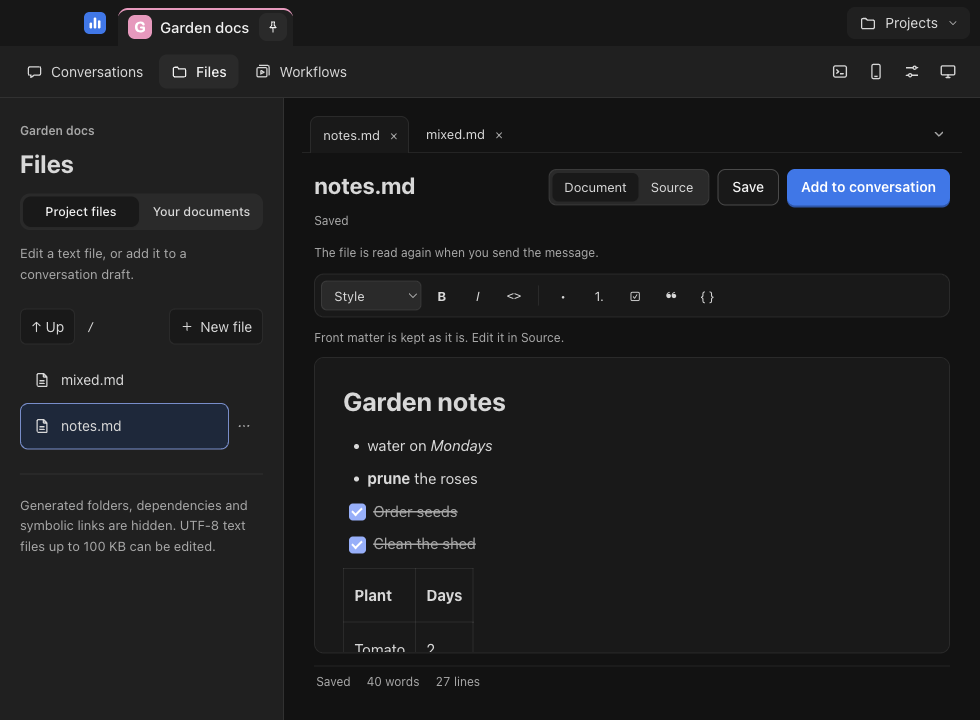
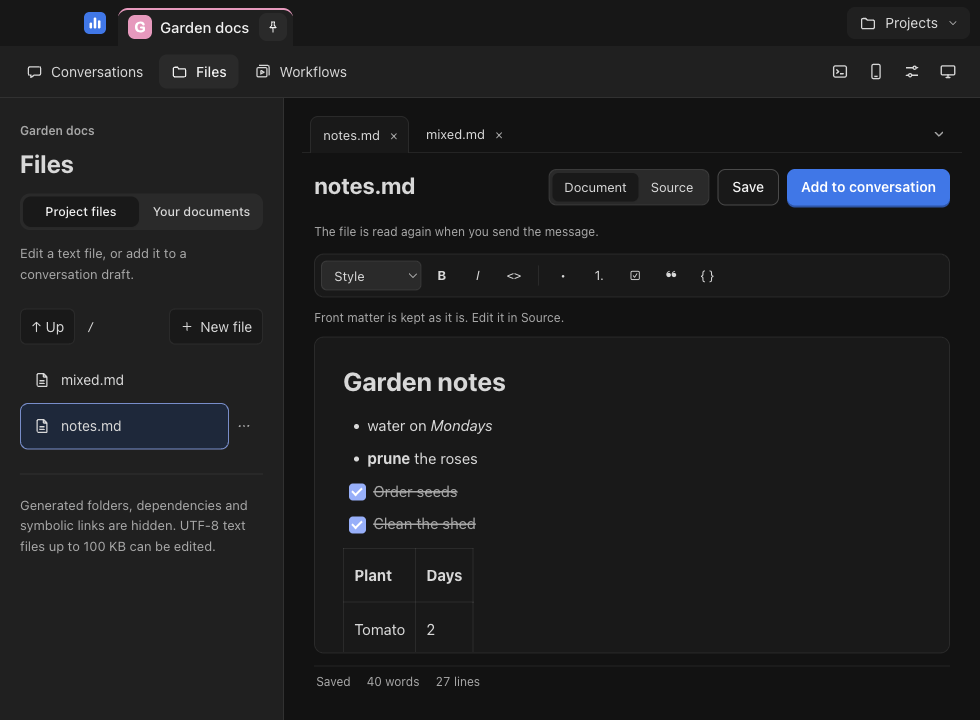
feat(files): Files extras proven - your documents, new-file kinds, row actions, tab menu, footer, line numbers (U9)
Finishes U9 on top of the earlier checkpoint: the Saved state moves to the editor footer (beside words
and lines), proof-edit reads it there, and proof:files-extras covers documents, pin/archive, rename,
Open in default app, Reveal in Finder, Move to Trash, the open-tabs menu and line numbers.
Gate: proof:files-extras (20 checks, no agent).

diff --git a/scripts/proof-files-extras.ts b/scripts/proof-files-extras.ts
@@ -1,0 +1,162 @@
+// U9 Files-extras gate, run against the PACKAGED app (npm run package first): `npm run proof:files-extras`.
+// No agent usage. Your documents (kept in the app's folder, never the project), new-file kinds,
+// pin / archive / rename, Open in default app / Reveal in Finder / Move to Trash, the open-tabs
+// menu (Close other / Close all keep unsaved tabs), the Saved / words footer, and line numbers.
+// Finder and the Trash are intercepted in the main process, so the real Trash stays untouched.
+import { existsSync, mkdirSync, mkdtempSync, readdirSync, readFileSync, realpathSync, rmSync, writeFileSync } from 'node:fs'
+import { tmpdir } from 'node:os'
+import { join } from 'node:path'
+import type { Page } from 'playwright-core'
+import { checker, launchPackagedApp, PROOF_DIR, ROOT } from './lib/launch-app.ts'
+import { openProject } from './lib/ui.ts'
+
+const home = mkdtempSync(join(tmpdir(), 'cockpit-files-extras-proof-'))
+const state = join(home, 'state')
+const project = join(home, 'greenhouse')
+mkdirSync(project)
+writeFileSync(join(project, 'README.md'), '# Greenhouse\n\nSeedlings go out in May.\n')
+writeFileSync(join(project, 'notes.txt'), 'first line\nsecond line\nthird line\n')
+writeFileSync(join(project, 'todo.txt'), 'repot the basil\n')
+
+const docsDir = (): string => { const base = join(state, 'documents'); return join(base, readdirSync(base).find((n) => !n.endsWith('.json'))!) }
+const list = (page: Page) => page.getByRole('navigation', { name: /Project files|Your documents/ })
+const row = (page: Page, name: string) => list(page).locator('.file-row-wrap').filter({ has: page.locator('.file-row', { hasText: new RegExp(`^${name.replace('.', '\\.')}`) }) })
+async function rowAction(page: Page, name: string, action: string): Promise<void> {
+  await row(page, name).getByRole('button', { name: `More for ${name}` }).click()
+  await page.getByRole('menuitem', { name: action }).click()
+}
+async function newFile(page: Page, kind: RegExp, name: string): Promise<void> {
+  await list(page).getByRole('button', { name: 'New file' }).click()
+  await page.getByRole('menuitem', { name: kind }).click()
+  await page.getByLabel('New file name').fill(name)
+  await page.getByRole('button', { name: 'Create', exact: true }).click()
+}
+const editor = (page: Page) => page.getByLabel('File contents')
+
+const { check, finish } = checker()
+mkdirSync(PROOF_DIR, { recursive: true })
+const app = await launchPackagedApp({ COCKPIT_HOME: state, COCKPIT_AGENT_PATH: join(ROOT, 'scripts/fixtures/echo-agent') })
+const page = await app.firstWindow()
+await page.waitForLoadState('domcontentloaded')
+page.setDefaultTimeout(15_000)
+await app.evaluate(({ shell }) => {
+  const calls: string[] = []
+  ;(globalThis as unknown as { calls: string[] }).calls = calls
+  Object.assign(shell, {
+    showItemInFolder(path: string) { calls.push(`reveal ${path}`) },
+    openPath(path: string) { calls.push(`open ${path}`); return Promise.resolve('') },
+    trashItem(path: string) { calls.push(`trash ${path}`); return Promise.resolve() },
+  })
+})
+const calls = (): Promise<string[]> => app.evaluate(() => (globalThis as unknown as { calls: string[] }).calls)
+
+try {
+  await openProject(page, project, 'Greenhouse')
+  // Source view, so typing goes to the plain text box; read when the editor mounts.
+  await page.evaluate(() => localStorage.setItem('cockpit:markdown-view', 'source'))
+  await page.getByRole('tab', { name: 'Files', exact: true }).click()
+
+  // Your documents.
+  await page.getByRole('tab', { name: 'Your documents' }).click()
+  await list(page).getByText('No documents yet.', { exact: false }).waitFor()
+  await newFile(page, /^Markdown/, 'planting plan')
+  await page.locator('.file-tab.active').filter({ hasText: 'planting plan.md' }).waitFor()
+  check('Markdown adds .md, and the document opens', true)
+  await editor(page).fill('Tomatoes in bed two, basil by the door.\nPeppers wait for June.')
+  check('the footer counts words and says unsaved', await page.locator('.file-status').innerText().then((t) => /Unsaved changes/.test(t) && /12 words/.test(t) && /2 lines/.test(t)),
+    await page.locator('.file-status').innerText())
+  await page.getByRole('button', { name: 'Save', exact: true }).click()
+  await page.locator('.file-status').filter({ hasText: /^Saved/ }).waitFor()
+  check('saving says Saved', true)
+  check('documents are kept by Cockpit, never in the project', readFileSync(join(docsDir(), 'planting plan.md'), 'utf8').startsWith('Tomatoes')
+    && !existsSync(join(project, 'planting plan.md')))
+  check('documents are not offered to conversations', await page.getByRole('button', { name: 'Add to conversation' }).count() === 0)
+  await newFile(page, /^JSON/, 'sowing')
+  await page.locator('.file-tab.active').filter({ hasText: 'sowing.json' }).waitFor()
+  check('JSON starts as an empty object', readFileSync(join(docsDir(), 'sowing.json'), 'utf8') === '{\n}\n')
+  await newFile(page, /^Plain text/, 'shopping')
+  await page.locator('.file-tab.active').filter({ hasText: 'shopping.txt' }).waitFor()
+  check('Plain text adds .txt', existsSync(join(docsDir(), 'shopping.txt')))
+
+  await rowAction(page, 'shopping.txt', 'Pin')
+  await page.locator('.file-pin').waitFor()
+  const order = await list(page).locator('.file-row > span:first-of-type').allTextContents()
+  check('a pinned document leads the list', order[0] === 'shopping.txt', order.join(', '))
+  await rowAction(page, 'planting plan.md', 'Archive')
+  await list(page).getByRole('tab', { name: /Archived 1/ }).waitFor()
+  check('archiving moves it out of Current', await row(page, 'planting plan.md').count() === 0)
+  await list(page).getByRole('tab', { name: /Archived/ }).click()
+  await rowAction(page, 'planting plan.md', 'Unarchive')
+  await list(page).getByText('Nothing archived.').waitFor()
+  await list(page).getByRole('tab', { name: 'Current' }).click()
+  check('Unarchive brings it back', await row(page, 'planting plan.md').count() === 1)
+
+  await rowAction(page, 'sowing.json', 'Rename…')
+  await page.getByLabel('New name for sowing.json').fill('seed order.json')
+  await page.getByRole('button', { name: 'Rename', exact: true }).click()
+  await row(page, 'seed order.json').waitFor()
+  check('rename changes the file and its open tab', existsSync(join(docsDir(), 'seed order.json')) && !existsSync(join(docsDir(), 'sowing.json'))
+    && await page.locator('.file-tab').filter({ hasText: 'seed order.json' }).count() === 1)
+  await rowAction(page, 'shopping.txt', 'Rename…')
+  await page.getByLabel('New name for shopping.txt').fill('seed order.json')
+  await page.getByRole('button', { name: 'Rename', exact: true }).click()
+  await page.getByRole('alert').filter({ hasText: 'seed order.json already exists' }).waitFor()
+  check('rename never replaces another file', readFileSync(join(docsDir(), 'seed order.json'), 'utf8') === '{\n}\n' && existsSync(join(docsDir(), 'shopping.txt')))
+  await page.getByLabel('New name for shopping.txt').press('Escape')
+
+  await rowAction(page, 'planting plan.md', 'Reveal in Finder')
+  await rowAction(page, 'planting plan.md', 'Open in default app')
+  await page.waitForTimeout(300)
+  const external = await calls()
+  check('Reveal in Finder and Open in default app name the document on disk',
+    external[0] === `reveal ${realpathSync(join(docsDir(), 'planting plan.md'))}` && external[1] === `open ${realpathSync(join(docsDir(), 'planting plan.md'))}`)
+  await page.screenshot({ path: join(PROOF_DIR, 'proof-files-documents.png') })
+
+  // Project files: rename and Move to Trash.
+  await page.getByRole('tab', { name: 'Project files' }).click()
+  await rowAction(page, 'todo.txt', 'Rename…')
+  await page.getByLabel('New name for todo.txt').fill('jobs.txt')
+  await page.getByRole('button', { name: 'Rename', exact: true }).click()
+  await row(page, 'jobs.txt').waitFor()
+  check('project files can be renamed in place', existsSync(join(project, 'jobs.txt')) && !existsSync(join(project, 'todo.txt')))
+  await row(page, 'jobs.txt').locator('.file-row').click()
+  await page.locator('.file-tab.active').filter({ hasText: 'jobs.txt' }).waitFor()
+  const jobs = realpathSync(join(project, 'jobs.txt'))
+  await rowAction(page, 'jobs.txt', 'Move to Trash…')
+  await page.getByRole('alertdialog', { name: 'Move jobs.txt to the Trash' }).getByRole('button', { name: 'Move to Trash' }).click()
+  await page.locator('.file-tab').filter({ hasText: 'jobs.txt' }).waitFor({ state: 'detached' })
+  check('Move to Trash sends the file to the Trash and closes its tab', (await calls()).includes(`trash ${jobs}`))
+  rmSync(join(project, 'jobs.txt')) // the intercepted Trash did not move it
+  await page.getByRole('tab', { name: 'Your documents' }).click()
+  await page.getByRole('tab', { name: 'Project files' }).click()
+  await row(page, 'notes.txt').waitFor()
+
+  // Line numbers, then the open-tabs menu.
+  await row(page, 'notes.txt').locator('.file-row').click()
+  await page.locator('.file-tab.active').filter({ hasText: 'notes.txt' }).waitFor()
+  check('Source view numbers the lines', (await page.locator('.file-gutter').innerText()).trim() === '1\n2\n3\n4')
+  await row(page, 'README.md').locator('.file-row').click()
+  await page.locator('.file-tab.active').filter({ hasText: 'README.md' }).waitFor()
+  await editor(page).fill('# Greenhouse\n\nSeedlings go out in late May.\n')
+  await page.locator('.file-tab').filter({ hasText: 'notes.txt' }).getByRole('tab').click()
+  const tabsBefore = await page.locator('.file-tab').count()
+  await page.getByRole('button', { name: 'Open tabs' }).click()
+  const listed = await page.getByRole('menu', { name: 'Open tabs' }).getByRole('menuitemradio').count()
+  await page.getByRole('menuitem', { name: 'Close other tabs' }).click()
+  const left = await page.locator('.file-tab').allInnerTexts()
+  check('the tabs menu lists every open tab', listed === tabsBefore, `${listed} of ${tabsBefore}`)
+  check('Close other tabs keeps the active one and any with unsaved changes', left.length === 2 && left.some((t) => t.includes('notes.txt')) && left.some((t) => t.includes('README.md')),
+    left.join(' | '))
+  check('it says why a tab stayed open', await page.getByText('1 tab has unsaved changes and stayed open.').isVisible())
+  await page.screenshot({ path: join(PROOF_DIR, 'proof-files-tabs.png') })
+  await page.getByRole('button', { name: 'Open tabs' }).click()
+  await page.getByRole('menuitem', { name: 'Close all tabs' }).click()
+  const remaining = await page.locator('.file-tab').allInnerTexts()
+  check('Close all tabs leaves only unsaved work', remaining.length === 1 && remaining[0]!.includes('README.md'), remaining.join(' | '))
+} catch (error) {
+  check('proof ran to the end', false, error instanceof Error ? error.message : String(error))
+  await page.screenshot({ path: join(PROOF_DIR, 'proof-files-extras-failure.png') }).catch(() => {})
+} finally {
+  await app.close()
+}
+finish('PROOF FILES EXTRAS')

diff --git a/scripts/proof-edit.ts b/scripts/proof-edit.ts
@@ -46,7 +46,7 @@ try {
   await page.screenshot({ path: join(PROOF_DIR, 'checkpoint-5a-editor.png') })
   await editor(page).press('Meta+s')
   check('Cmd+S saves to disk', await waitFor(page, 'the save', () => disk('README.md').includes('Thursdays')))
-  check('the tab reads Saved afterwards', await waitFor(page, 'Saved', async () => (await page.locator('.file-editor header span').textContent()) === 'Saved'))
+  check('the tab reads Saved afterwards', await waitFor(page, 'Saved', async () => (await page.locator('.file-status span').first().textContent()) === 'Saved'))
 
   // A change made on disk meanwhile is never overwritten silently.
   writeFileSync(join(project, 'README.md'), '# Garden notes\n\nThe agent rewrote this line.\n')

diff --git a/web/src/components/FileEditor.tsx b/web/src/components/FileEditor.tsx
@@ -83,7 +83,7 @@ export function FileEditor({ files, active, error, onSelect, onClose, onCloseMan
           <header>
             <div>
               <h2>{inDocuments ? <><span className="file-space">Your documents /</span> {nameOf(file.path)}</> : file.path}</h2>
-              <span>{dirty ? 'Unsaved changes' : 'Saved'}{file.eol === '\r\n' ? ' · Windows line endings' : ''}</span>
+              {file.eol === '\r\n' ? <span>Windows line endings</span> : null}
             </div>
             <div className="file-actions">
               {isMarkdown(file.path) ? (

diff --git a/docs/PLAN.md b/docs/PLAN.md
@@ -62,7 +62,7 @@ Each checkpoint is its own commit with a packaged-app proof, pushed when green.
 - **U6 Appearance.** *(Done 2026-10-01: `npm run proof:appearance`, 12 checks on the packaged app with the stand-in agent, including a restart; the theme button it replaces is driven through `setTheme` in `proof-b`, not re-run because that proof uses real Haiku.)* Defaults are the earlier look (agent and date, no preview). A popover in the top bar: System/Light/Dark; Normal/Compact for the conversation list and for messages; what list rows show (message preview, agent, date). Remembered across restarts.
 - **U7 App settings, sounds and the app icon.** *(Done 2026-10-01: `npm run proof:settings`, 7 checks, and `npm run proof:dock`, 10 checks, on the packaged app with stand-in agents; `proof:thread-menu` and `proof:appearance` re-run green. Not automated: whether the Cmd-Tab switcher shows the moving icon; look while an agent works.)* Sounds are off by default and synthesised in the page; a decision sounds for each fresh approval, including one that follows another with no gap. The Dock icon plays eight committed frames (`npm run dock-frames`) at 4 per second only while something is working, and its badge is the Needs you count across projects. Also fixed: overlapping list reloads could land out of order and send statuses backwards; only the newest now applies. An app settings panel; optional sounds when an agent replies and when it needs a decision. The app icon shows state from outside the window: it animates while any agent is working (David saw Enjoy's icon do this in the app switcher, 2026-10-01) and carries a badge with the Needs you count. Spike first: Electron's `app.dock.setIcon` frames and `app.dock.setBadge`; confirm the Cmd-Tab switcher picks up the changed icon, keep the frame rate low, and stop animating when nothing is working.
 - **U8 Project settings.** *(Done 2026-10-01: `npm run proof:project-settings`, 13 checks on the packaged app with the approval stand-in; `proof:instructions` not re-run because it uses real agents, its selectors are unchanged.)* The tint is the project colour: a wash on inactive tabs, a stripe on the active one. Pictures are scaled in the page to a 128 px square and kept in the app's own folder; the server accepts only PNG, JPEG, GIF or WebP up to 512 KB, checked by their bytes. Remove hides the project (so its conversations don't re-register it), is refused while an agent there is working or waiting, pauses its schedules, and is undone by opening the folder again. Project name, tab tint (a few presets), project image, Open folder in Finder, Remove from Cockpit (never touches the folder). Importing conversations is left out until there is something to import from.
-- **U9 Files extras.** Your documents (kept by the app per project, outside the repository) beside Project files; New file choices (Markdown, JSON, plain text, other); rename, pin, archive with an Archived view, delete; Open in default app, Reveal in Finder; an open-tabs menu with Close other tabs and Close all tabs; a footer with Saved state and word count; line numbers in Source view.
+- **U9 Files extras.** *(Done 2026-10-01: `npm run proof:files-extras`, 20 checks on the packaged app, no agent; `proof:edit` and `proof:docs` re-run green; `proof:files` not re-run because it includes a real agent turn.)* Pin and archive apply to your documents only; rename works in both places and never replaces a file; Delete is Move to Trash, so it can be undone from Finder; Close other / Close all keep tabs with unsaved changes open and say so. Documents are not offered to conversations (agents can't read the app's folder). Your documents (kept by the app per project, outside the repository) beside Project files; New file choices (Markdown, JSON, plain text, other); rename, pin, archive with an Archived view, delete; Open in default app, Reveal in Finder; an open-tabs menu with Close other tabs and Close all tabs; a footer with Saved state and word count; line numbers in Source view.
 - **U10 More agents** (requested 2026-10-01; detail under Phase 8). Gemini CLI first: installed here (0.42), so its headless JSON output or its agent protocol mode can be recorded and parsed like the others. Then Antigravity, only if it offers a headless agent Cockpit can drive (here it is installed as desktop apps; check before planning). OpenRouter through OpenCode's provider support. One adapter per checkpoint, each with recorded-traffic parser tests and a smoke run.
 - **U11 Account and plan placeholders.** An account panel that says the preview is free, with a plan card and licence field shown as "coming later". Needs a decision first: this repository has no licence file (all rights reserved by default), and what, if anything, is paid.
 
